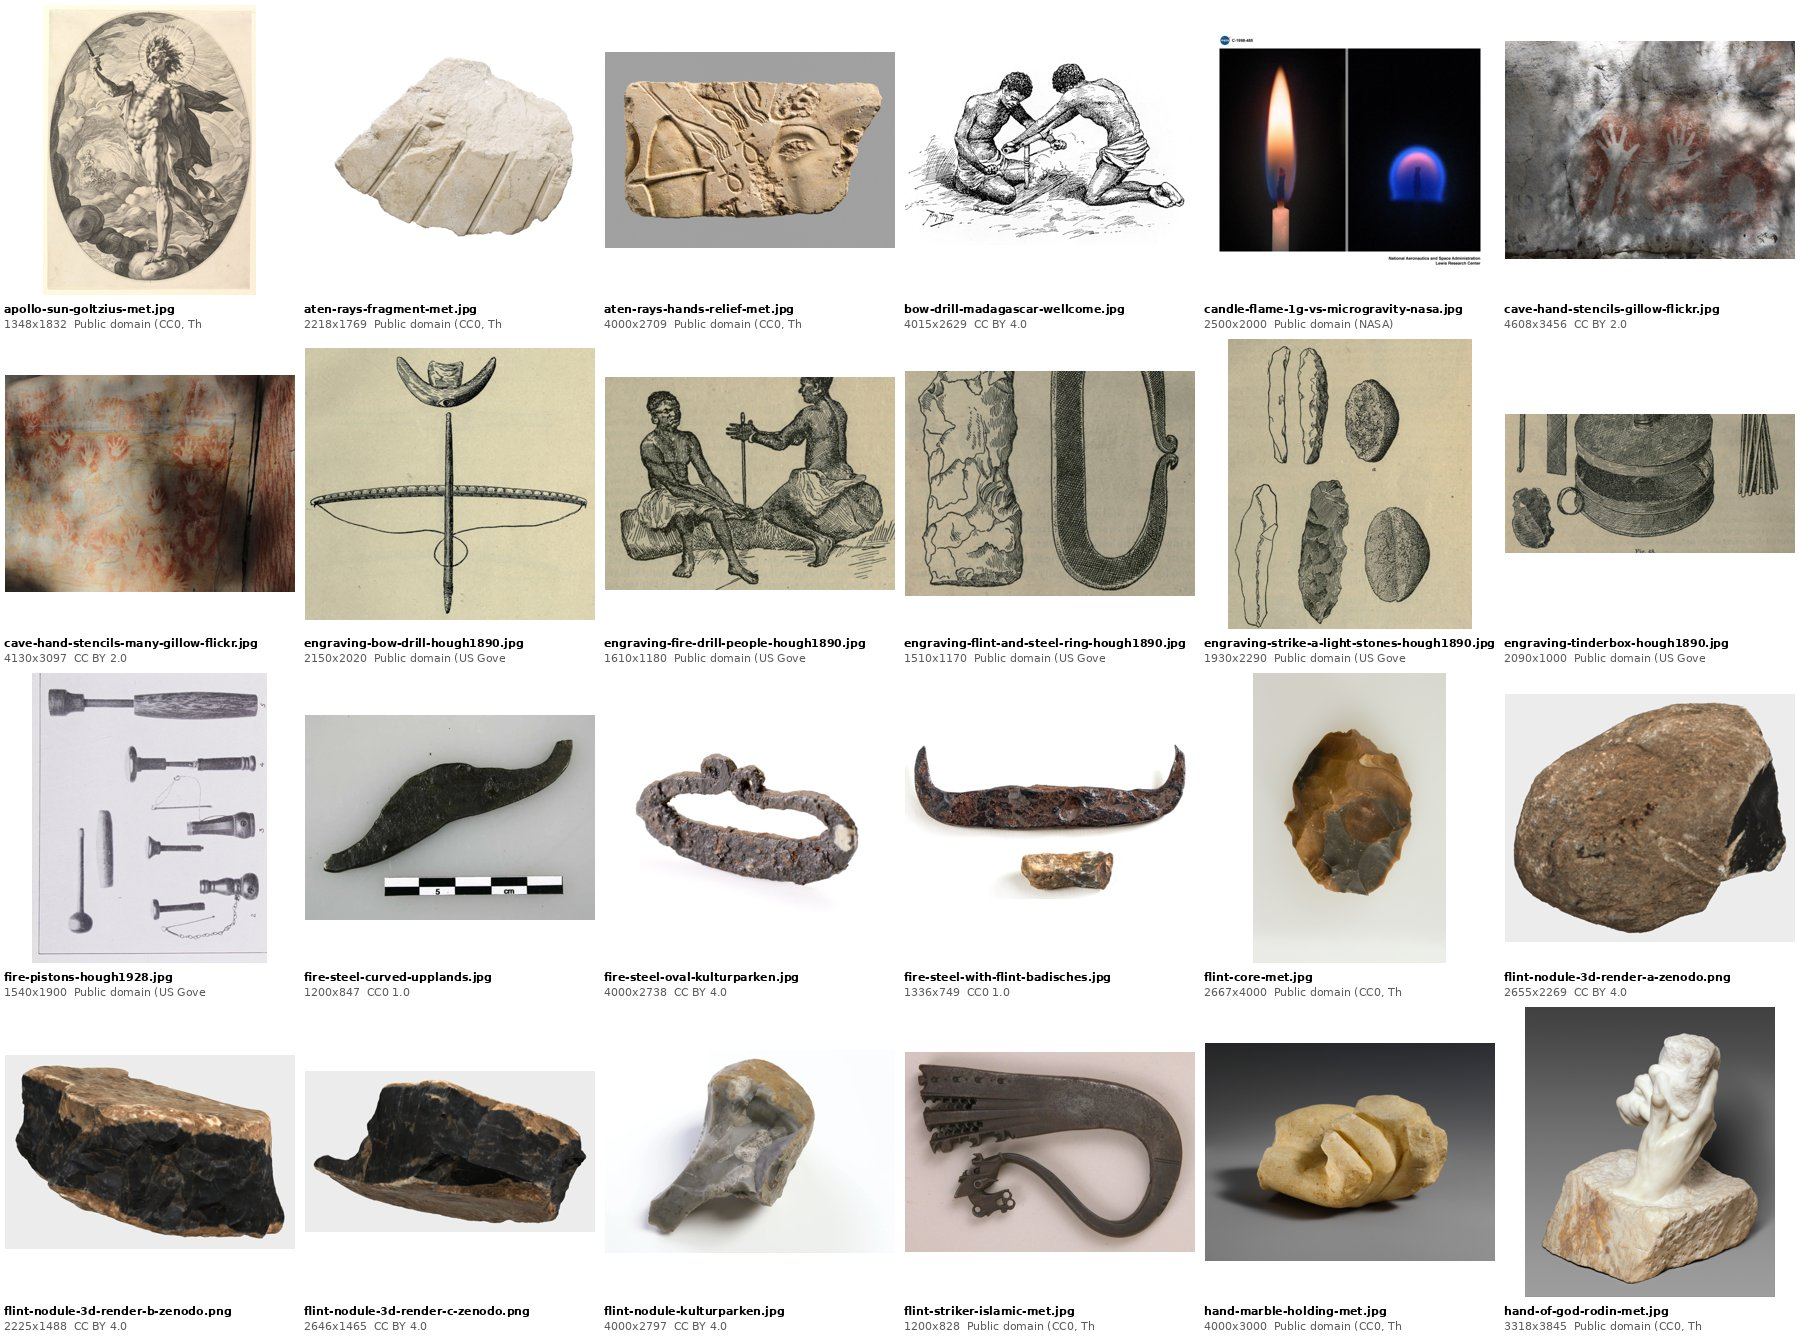
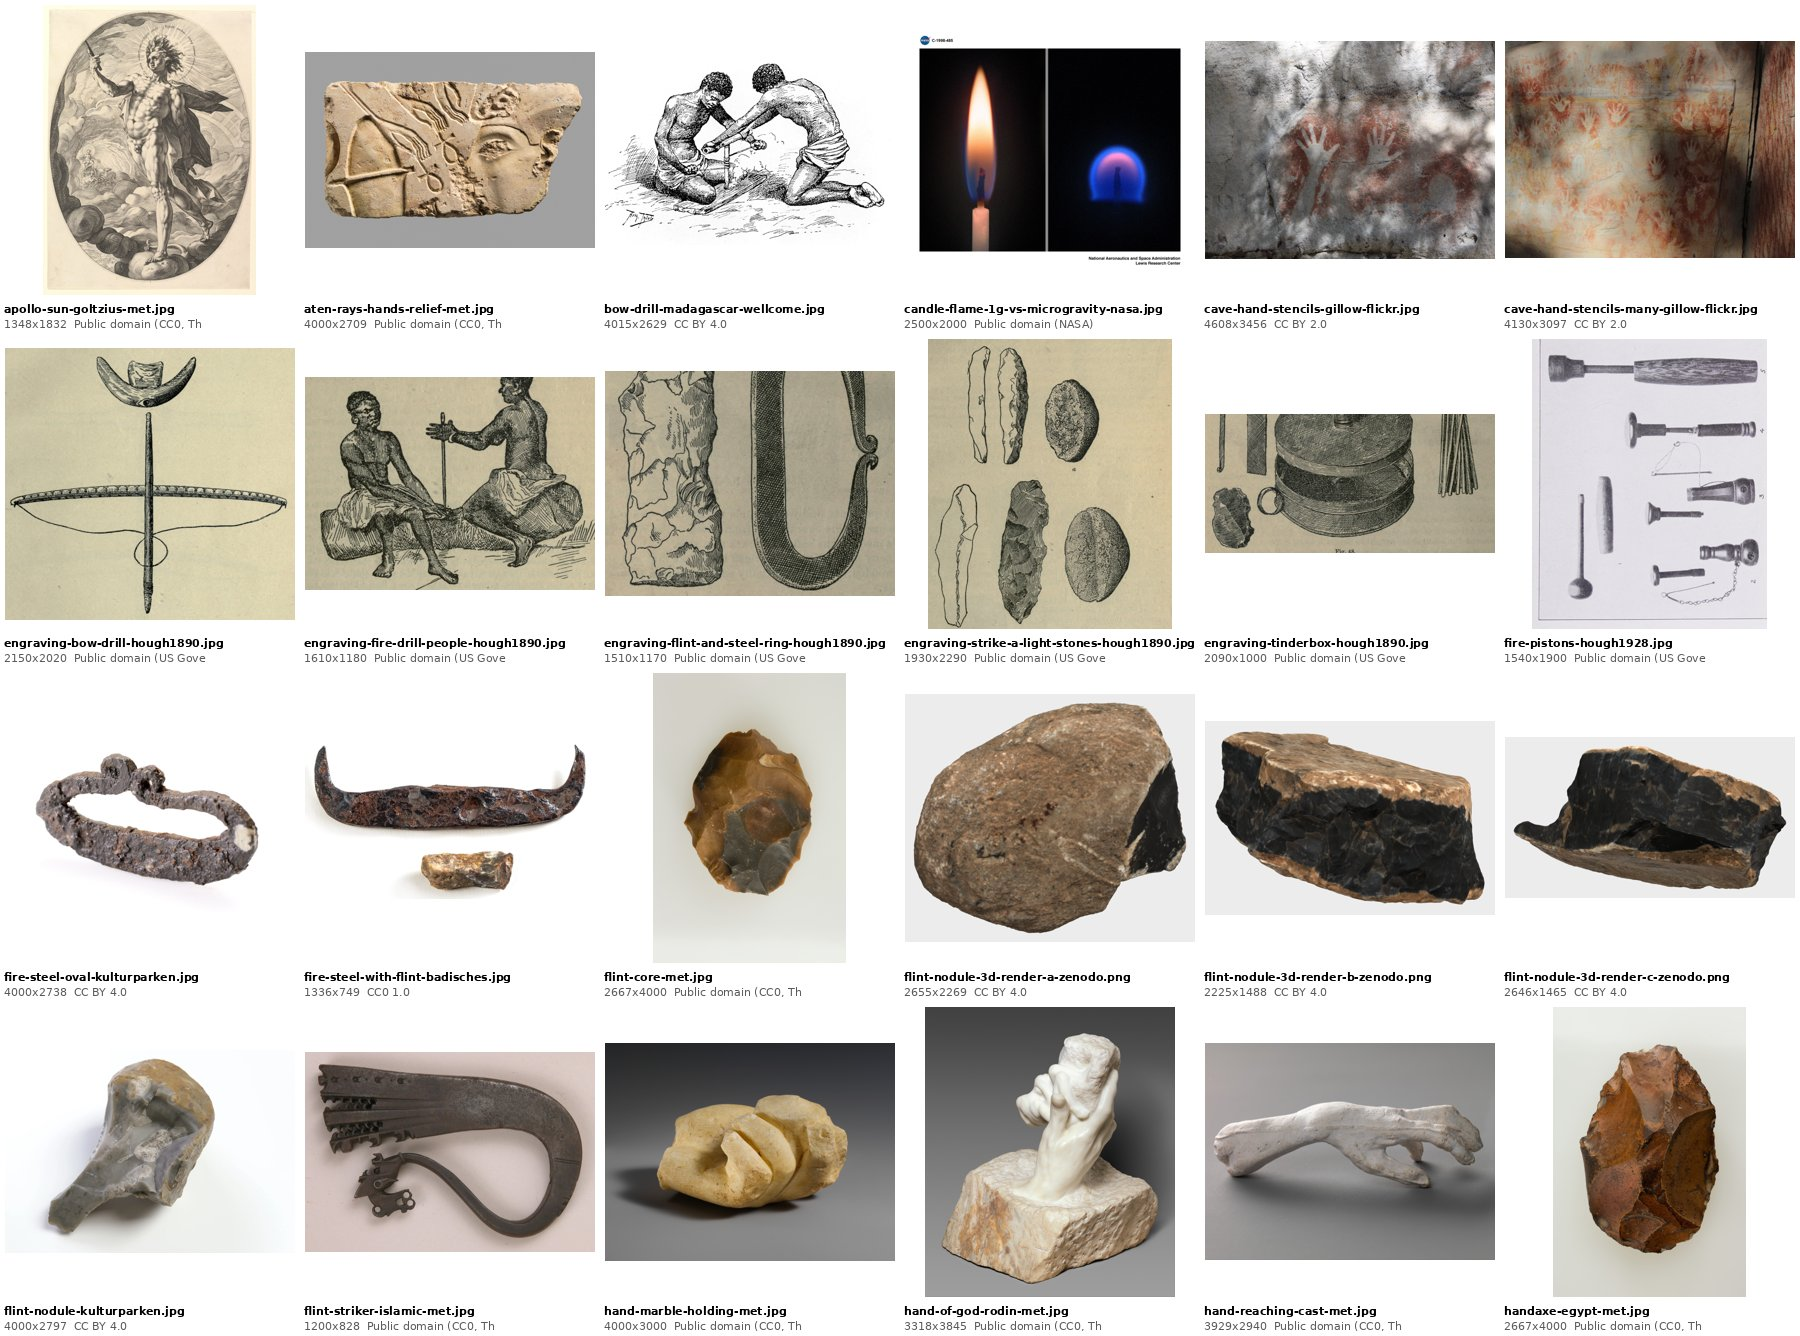
Research: spark-fire sourcing report and contact sheets
Claude-Session: https://claude.ai/code/session_01MwKj38429Y4E56fqLHe2Fb

diff --git a/research/sourcing/spark-fire.md b/research/sourcing/spark-fire.md
@@ -1,0 +1,95 @@
+# ERA 1: First spark & fire (`spark-fire`)
+
+Folder: `assets/raw/spark-fire/` (40 images + 2 GLB 3D models in `3d/`), credits in `assets/raw/spark-fire/credits.json`.
+Contact sheets: `research/sourcing/spark-fire-contact-1.jpg`, `research/sourcing/spark-fire-contact-2.jpg`.
+
+Every file was opened and verified with Pillow, and its pixel size is recorded both here and in `credits.json`. Files are saved as JPEG q95 at the largest available rendition, except the 3D renders, which are PNGs with alpha. Licenses used: CC0, PD/PDM, US-Government PD, NASA PD, CC BY 4.0 and CC BY 2.0. Nothing is NC, ND or SA.
+
+## Top 8 picks (★)
+
+1. **flint-nodule-kulturparken**: a real raw flint nodule on white at 4000 px. It works as the first of the two striking stones and cuts out easily.
+2. **flint-nodule-3d-render-b-zenodo.png + `3d/*.glb`**: a photogrammetry flint chunk (black glassy flint with a chalk cortex) delivered as a transparent PNG. The GLB lets the opening strike be animated in clean 3D with any angle or rotation.
+3. **engraving-strike-a-light-stones-hough1890**: an 1890 engraving of five fire-striking stones, including a round pyrite nodule. It gives the opening "two stones" in the same engraving language as the rest of the spot.
+4. **hooke-sparks-flint-steel-micrographia-wellcome**: Hooke (1665) put flint-and-steel sparks under a microscope and drew them as tiny spheres (Schem. V, Fig. 1, A–F; checked against the Observ. VIII text). That gives a spark → sphere → sun match that is also historically true.
+5. **candle-flame-1g-vs-microgravity-nasa**: a teardrop candle flame next to a spherical microgravity flame. The flame → circle/sun morph is already in one frame.
+6. **handaxe-teardrop-acheulean-met**: a pale teardrop biface whose shape matches the Solaro pin/teardrop.
+7. **oil-lamp-roman-sunrays-met**: a top-down Roman lamp whose discus has a radiating rosette that reads as a sun. Lamp, circle and sun in one object.
+8. **prometheus-torch-to-sun-met**: Prometheus lights his torch at the sun (1756 engraving), the story link from fire forward to the sun.
+
+Strong runners-up: flint-core-met, aten-rays-hands-relief-met, hand-of-god-rodin-met, fire-steel-oval-kulturparken, engraving-bow-drill-hough1890, handaxes-nine-bifaces-met, torch-bearing-arm-met, cave-hand-stencils-gillow-flickr.
+
+Treatment key: **cutout** = object on plain ground, mask it onto white. **engraving-clean** = level the paper to #FFFFFF and keep the black line. **card** = keep as a rectangular image. **texture** = use as overlay or pattern.
+
+## Full table
+
+| ★ | File (`spark-fire-…`) | Subject | Size px | License | Why useful | Treatment | Match-cut ideas |
+|---|---|---|---|---|---|---|---|
+| ★ | flint-nodule-kulturparken.jpg | Raw flint nodule (Kulturparken Småland M17000:2075) | 4000×2797 | CC BY 4.0 | Genuine raw flint stone on white, translucent grey flint plus cortex | cutout → B&W | Stone A in the opening strike; it rotates into the Solaro teardrop |
+| ★ | flint-nodule-3d-render-b-zenodo.png | 3D flint chunk (model 0373), black flint face | 2225×1488 | CC BY 4.0 | Alpha PNG with a perfect edge; any angle is available from the GLB | cutout (already) | Stone B. Strike against the nodule, emit an orange spark, cut to Hooke's globules |
+|  | flint-nodule-3d-render-a-zenodo.png | 3D flint nodule (model 0370), rounded cortex pebble | 2655×2269 | CC BY 4.0 | A rounder "pebble" option for the second stone | cutout (already) | Rounded stone → ring of the Solaro mark |
+|  | flint-nodule-3d-render-c-zenodo.png | 3D flint chunk (model 0373), side view | 2646×1465 | CC BY 4.0 | Alternate angle of the same stone for a two-frame strike | cutout (already) | Pair with render-b for the impact frames |
+|  | 3d/3d-flint-nodule-0370/0373-zenodo.glb | glTF 2.0 photogrammetry models (Draco, ~1.5M verts, textured) | 23 MB each | CC BY 4.0 | Clean 3D for the opening, which can be lit on white | 3D | Two stones collide in 3D, then the spark |
+|  | flint-core-met.jpg | Knapped flint core, Predynastic Egypt | 2667×4000 | CC0 (Met) | Ovate flint stone on white, high resolution | cutout | Second striking stone; its oval reads as a pin/drop |
+| ★ | engraving-strike-a-light-stones-hough1890.jpg | Strike-a-light flints and pyrites (Hough 1890, Fig. 44) | 1930×2290 | PD (US Gov) | Engraved striking stones, including a round pyrite nodule | engraving-clean | Round pyrite → spark globule → sun; can be split into 5 single stones |
+|  | engraving-flint-and-steel-ring-hough1890.jpg | Flint + oval ring steel (Fig. 51) | 1510×1170 | PD (US Gov) | The literal flint-and-steel pair as line art | engraving-clean | Ring steel → Solaro ring; paint the orange arc of the strike |
+|  | engraving-bow-drill-hough1890.jpg | Inuit bow drill with mouthpiece (Pl. LXXVI) | 2150×2020 | PD (US Gov) | Very clean geometric line art; the bow string and spindle give a crisp diagram | engraving-clean | Paint orange friction heat at the tip; spindle → filament/lightning rod |
+|  | engraving-fire-drill-people-hough1890.jpg | Taveita Africans making fire with a hand drill (Fig. 20) | 1610×1180 | PD (US Gov) | Human hands making fire, a gesture shot | engraving-clean / card | Hands twirling → hands on the next era's crank/dynamo |
+|  | engraving-tinderbox-hough1890.jpg | English tinderbox with flint, steel and spunks (Fig. 48) | 2090×1000 | PD (US Gov) | Round box from above, plus flint, steel and matches | engraving-clean | Round lid → ring; matches → filaments |
+|  | fire-pistons-hough1928.jpg | Fire pistons, Malaysia (Proc. USNM 1928, Pl. 11) | 1540×1900 | PD (US Gov) | The only fire-piston image found; halftone on white | cutout (each piston) | Piston → syringe → battery/cylinder |
+|  | bow-drill-madagascar-wellcome.jpg | Two people using a string/bow drill, West Madagascar | 4015×2629 | CC BY 4.0 | Clean line illustration on white at high resolution | engraving-clean | Two figures + drill as a centred "first fire" scene |
+|  | fire-steel-oval-kulturparken.jpg | Oval iron fire steel (M17001:1853) | 4000×2738 | CC BY 4.0 | Closed-ring strike-a-light on white, large | cutout | Ring → Solaro ring / sun disc |
+|  | fire-steel-with-flint-badisches.jpg | Horned fire steel + flint (Badisches Landesmuseum) | 1336×749 | CC0 | Flint and steel photographed together | cutout | Horned steel → crescent → sun-rise arc |
+|  | flint-striker-islamic-met.jpg | Ornate C-shaped flint striker, 17th–18th c. | 1200×828 | CC0 (Met) | Elegant silhouette (minimum size) | cutout | C-curve → quarter-rounded square corner |
+|  | tinderbox-met.jpg | Two round tin tinderboxes with candle sockets | 2626×2002 | CC0 (Met) | Archival B&W on white, already monochrome | cutout | Cylinders → battery cells |
+| ★ | handaxe-teardrop-acheulean-met.jpg | Acheulean biface, pale teardrop | 2805×4000 | CC0 (Met) | Strong teardrop shape on grey | cutout | Hand axe → Solaro teardrop/pin → candle flame |
+|  | handaxe-red-acheulean-met.jpg | Acheulean biface, red-brown flame shape | 3109×4000 | CC0 (Met) | Leaf/flame silhouette | cutout | Hand axe → flame → bulb |
+|  | handaxes-nine-bifaces-met.jpg | Nine Acheulean bifaces on stands | 4000×2564 | CC0 (Met) | Ready-made group for a grid, or cut out each one | cutout / grid | 9-up grid that flips into 9 solar cells |
+|  | handaxe-egypt-met.jpg | Lower Paleolithic ovate hand axe, Egypt | 2667×4000 | CC0 (Met) | Brown ovate on white | cutout | Oval → sun disc |
+|  | handaxe-paleolithic-cleveland.jpg | Paleolithic hand axe (CMA 1915.41) | 3400×2206 | CC0 (Cleveland) | Golden flint, side-on | cutout | Grid filler |
+| ★ | hooke-sparks-flint-steel-micrographia-wellcome.jpg | Hooke, *Micrographia* 1665, Schem. V (Fig. 1: sparks from flint and steel) | 4842×7376 | CC BY 4.0 | Scientific engraving of sparks as spheres. Crop Fig. 1 (upper left) | engraving-clean (crop) | Spark globule → star → sun; hollow spark D → ring |
+| ★ | candle-flame-1g-vs-microgravity-nasa.jpg | Candle flame in 1g vs microgravity (GRC-1998-C-00485) | 2500×2000 | PD (NASA) | Teardrop flame next to spherical flame | texture / card (invert or knock out black) | Flame teardrop → circle → sun; split the two halves |
+| ★ | oil-lamp-roman-sunrays-met.jpg | Roman/Cypriot terracotta lamp, radiating rosette on discus | 3379×4000 | CC0 (Met) | Top-down circle with rays | cutout | Lamp discus → sun with rays → solar panel |
+|  | oil-lamp-roman-face-met.jpg | Roman terracotta lamp, face/bust on discus | 3809×4000 | CC0 (Met) | Top-down, very clean (the figure is not identified in the record) | cutout | Face in disc → sun face |
+|  | oil-lamp-roman-plain-met.jpg | Roman terracotta lamp, late Imperial | 4000×3822 | CC0 (Met) | Circle-plus-nozzle silhouette, close to the Solaro pin | cutout | Lamp → pin shape → light bulb |
+|  | oil-lamp-bronze-roman-cleveland.jpg | Roman bronze oil lamp, side view (CMA 2023.104) | 3400×2797 | CC0 (Cleveland) | Classic "Aladdin lamp" silhouette | cutout | Wick flame → bulb filament |
+|  | lantern-pierced-tin-met.jpg | Pierced tin lantern, ca. 1825 | 1743×2587 | CC0 (Met) | Dark silhouette; the pierced pattern reads like a dot grid | cutout | Perforations → solar-cell grid / LED matrix |
+|  | torch-bearing-arm-met.jpg | Bronze torch-bearing arm (sconce), 16th c.? | 4000×2984 | CC0 (Met) | A sculpted hand gripping a torch socket | cutout | Add an orange flame vector; the arm hands the torch to the next era |
+|  | ignis-fire-element-met.jpg | "Fire" from *The Elements*, J. J. Preissler 1735 | 3531×2965 | CC0 (Met) | Engraved flames in a brazier held aloft, a fine line engraving | engraving-clean | Engraved flame → orange painted flame |
+| ★ | prometheus-torch-to-sun-met.jpg | Minerva assisting Prometheus, B. Crivellari 1756 | 1689×3656 | CC0 (Met) | Torch reaching up to the sun's rays; tall vertical format | engraving-clean / card | Torch tip → sun → Solaro mark |
+|  | prometheus-cort-1566-wellcome.jpg | Prometheus bound, Cornelis Cort after Titian 1566 | 2392×3208 | PDM | Dramatic, iconic engraving | engraving-clean / card | Fast cut card |
+|  | prometheus-1558-met.jpg | Prometheus, Sebastiano de' Valentinis 1558 | 2483×3563 | CC0 (Met) | Engraving of Prometheus with the eagle | engraving-clean / card | Alternate Prometheus |
+|  | aten-rays-hands-relief-met.jpg | Amarna relief: Aten rays ending in hands reach the queen | 4000×2709 | CC0 (Met) | Sun rays and hands in one relief | cutout / card | Rays with hands → orange sun rays → solar beams |
+|  | apollo-sun-goltzius-met.jpg | Apollo with radiant sun halo, H. Goltzius 1588 | 1348×1832 | CC0 (Met) | Oval engraving with a sun halo (lower resolution) | engraving-clean | Halo → sun ring → Solaro ring |
+|  | hand-of-god-rodin-met.jpg | Rodin, *The Hand of God* (marble) | 3318×3845 | CC0 (Met) | White marble hand creating from stone | cutout | Hand emerging from stone → hand holding a solar cell |
+|  | hand-reaching-cast-met.jpg | Rodin, Study of a hand (plaster) | 3929×2940 | CC0 (Met) | White reaching hand on grey | cutout | Reaching hand → the spark (Creation-of-Adam gap) |
+|  | hand-marble-holding-met.jpg | Antique marble hand gripping a box | 4000×3000 | CC0 (Met) | Gripping hand; composite a flint into it | cutout | Hand holding stone → hand holding bulb |
+|  | cave-hand-stencils-gillow-flickr.jpg | Negative hand stencils on rock (photo, Mark Gillow) | 4608×3456 | CC BY 2.0 | Two clear spread-hand stencils | card or threshold to B&W | Hand stencil → modern hand → Solaro |
+|  | cave-hand-stencils-many-gillow-flickr.jpg | Wall of ochre hand stencils (photo, Mark Gillow) | 4130×3097 | CC BY 2.0 | A "crowd of hands" texture | texture / card | Many hands → many solar panels (repetition) |
+
+## Attribution needed in the end credits or video description (CC BY)
+
+- Kulturparken Småland (flint nodule, oval fire steel), CC BY 4.0
+- Wellcome Collection (Hooke *Micrographia* plate; Madagascar bow-drill illustration), CC BY 4.0
+- Jacek Lech, "Chocolate flint: 3D documentation", Zenodo (10.5281/zenodo.18961132, 10.5281/zenodo.18966653), CC BY 4.0
+- Mark Gillow, "Rock Art – Hand stencils" (Flickr), CC BY 2.0
+
+## Sources used
+
+- The Met Open Access API (`collectionapi.metmuseum.org/public/collection/v1.1/search`; v1 search was retired on 2026-10-01).
+- Cleveland Museum of Art Open Access.
+- Wellcome Collection IIIF.
+- Europeana, which led to Kulturparken Småland, Badisches Landesmuseum and DigitaltMuseum (`dimension=max` gives up to 4000 px).
+- Internet Archive: Walter Hough, *Fire-making apparatus in the U.S. National Museum*, 1890 and 1928 (US Government, PD). Plates were cropped from the jp2 page scans.
+- NASA Images.
+- Openverse, used to find the Flickr photos; their CC BY 2.0 license was re-confirmed on each Flickr page.
+- Zenodo, for the 3D models.
+
+## Gaps and notes
+
+- **Smithsonian Open Access** returned 429 OVER_RATE_LIMIT for the shared DEMO_KEY for the whole session, and **Wikimedia** also returned 429. Hough's USNM plates stand in for the Smithsonian's fire-making collection. A personal api.data.gov key would open up NMNH/NMAH strike-a-lights and fire pistons in better resolution.
+- **Cave art and hand stencils:** I found no clean B&W engraving I could use. Breuil's Altamira and Font-de-Gaume copies are still in copyright in the EU (Breuil died in 1961), so I skipped them. Only two colour Flickr photos are kept (CC BY 2.0). A Cueva de las Manos photo was dropped because it was only 1024 px.
+- **Flames, campfire, sparks:** I found no clean campfire engraving and no free "sparks on black" photo (Unsplash, Pexels and Pixabay are blocked). Flames are covered by the NASA candle, the Ignis engraving and the torch arm. Sparks are best drawn as orange vectors, with Hooke's globules as the historical anchor.
+- **Helios coin:** none found. The sun-link role is covered by the Goltzius Apollo, the Aten relief, the sun-rosette lamp and Prometheus reaching the sun.
+- **Smaller files:** two items sit near the 1200 px floor: flint-striker-islamic (1200 px) and fire-steel-with-flint-badisches (1336 px).
+- **Dropped:** I dropped three Kulturparken and Met flints that were only 600–800 px, plus an Aten-ray fragment and the Upplands fire steel, which were weaker. They were removed from the folder and from `credits.json`.
+- **3D renders:** stills made with three.js r160 (SwiftShader) from the CC BY GLBs. The texture is soft at 100% crop but fine at on-screen size, and it can be re-rendered at any angle.
